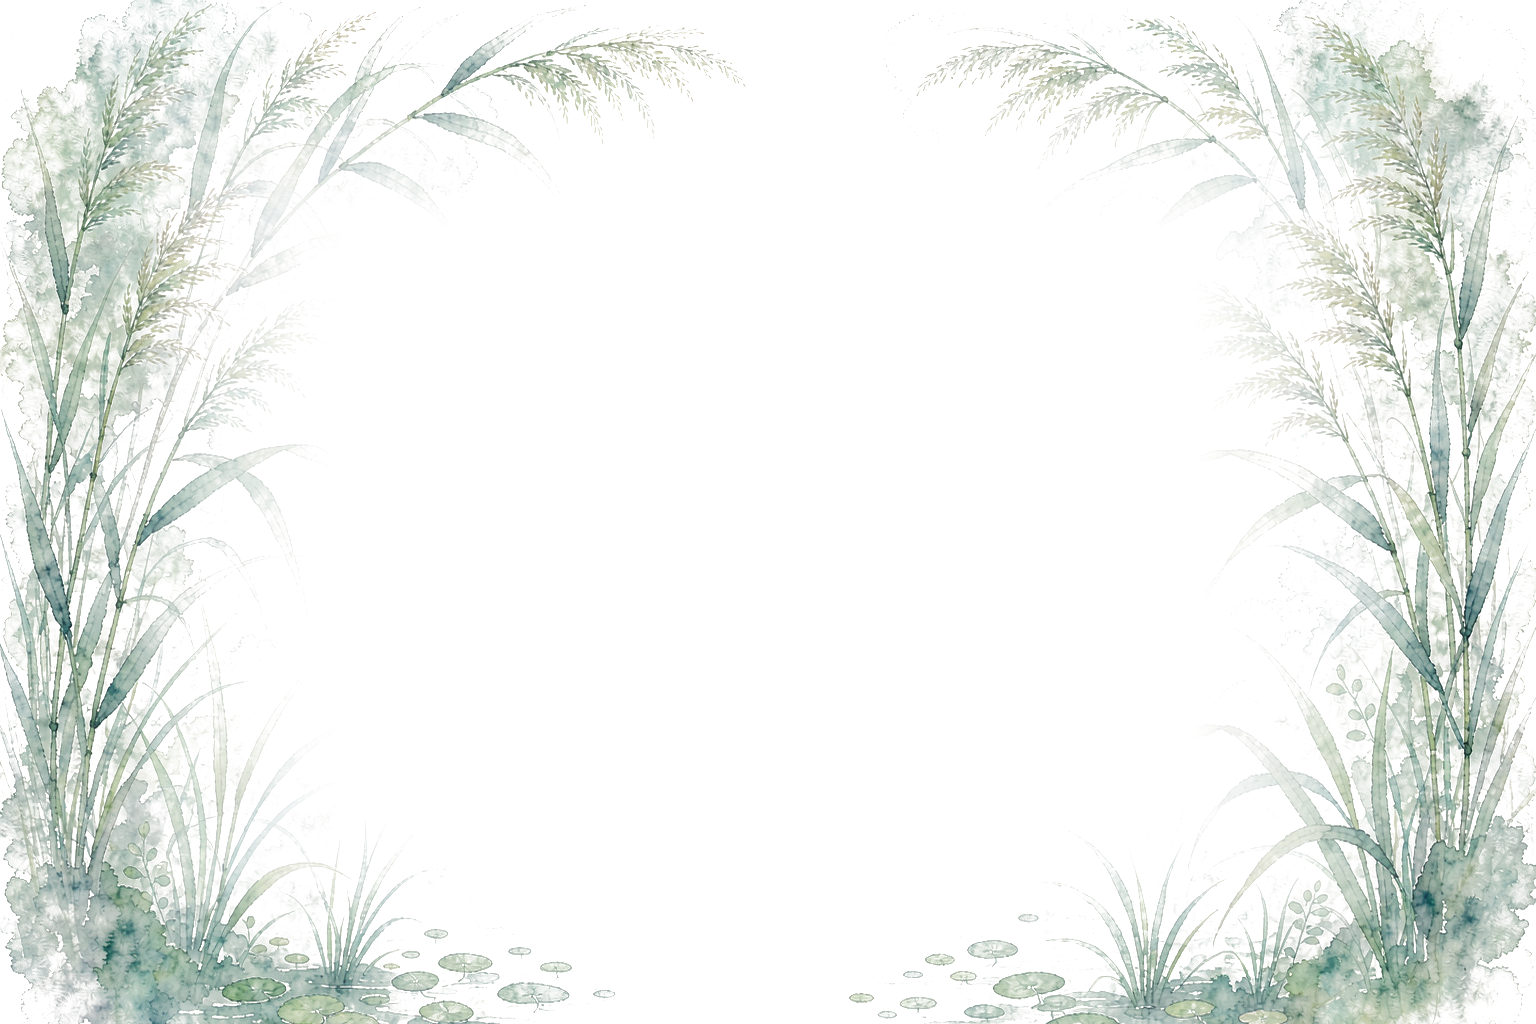
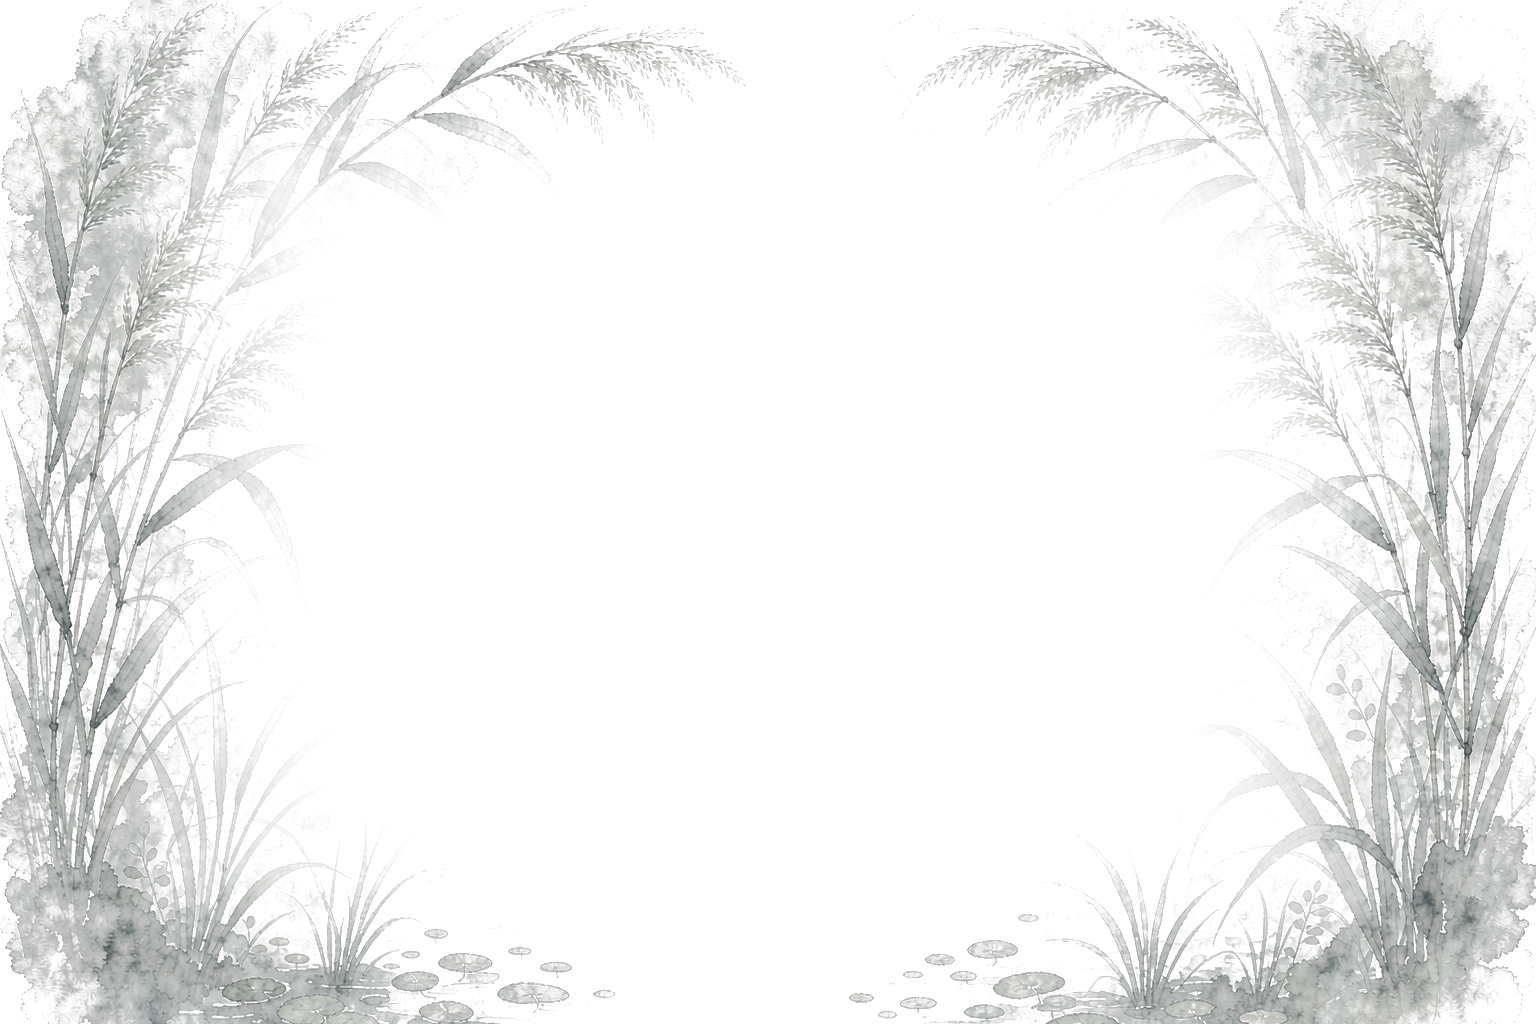
档 1 动效 + 苍泽前景降饱和
1. 苍泽前景与背景不搭（用户："前景颜色太鲜艳，背景是死灰色"）
   前景做色彩归并：饱和度降到 42%、亮度 94%、与灰度混合 35%、alpha ×0.82，
   让芦苇退到背景后面，不再抢眼。
2. 档 1 动效（BattleStage2D）：
   · 背景层改为超铺 6%（漂移不会露出边），记录 home；
   · Step 里做极缓视差：水平 sin(t*0.195)*0.10、垂直 sin(t*0.140)*0.06 世界单位
     （1920 宽下约 7px / 4px，周期 32s/45s）；
   · 前景原有的 ±0.5° 摆动与 0.06/0.05 位移保留（与背景不同频率 ⇒ 有层次）。
   零 shader、零新资源，2D 精灵位移，低端机无压力。

diff --git a/Assets/WanXiang/Modules/Battle/Presentation/BattleStage2D.cs b/Assets/WanXiang/Modules/Battle/Presentation/BattleStage2D.cs
@@ -438,6 +438,10 @@ namespace WanXiang.Battle.Presentation
 
         // ---- 四周前景装饰（2026-10-11 战斗美化：随幕变化 + 轻微摇曳）----
         private Transform _fgDecor;
+
+        /// <summary>背景层（档 1 极缓视差漂移用；2026-10-23）。</summary>
+        private Transform _bgDecor;
+        private Vector3 _bgHomePos;
         /// <summary>环境粒子（按幕：春花瓣/夏萤火/长夏花粉/秋落叶/冬雪花）。</summary>
         private BattleAmbientParticles _ambient;
 
@@ -471,10 +475,14 @@ namespace WanXiang.Battle.Presentation
                 bgSr.sprite = springBg;
                 // 铺满相机视野（ortho 5.4 → 高 10.8、宽 19.2 @16:9）
                 var b = springBg.bounds;
-                float sx = 19.2f / b.size.x, sy = 10.8f / b.size.y;
+                // ★ 2026-10-23 档 1：背景要做极缓视差漂移 ⇒ 超铺 6%，四边不会被漂出空白。
+                const float bgOver = 1.06f;
+                float sx = 19.2f * bgOver / b.size.x, sy = 10.8f * bgOver / b.size.y;
                 bg.transform.localScale = new Vector3(sx, sy, 1f);
             }
             bgSr.sortingOrder = -10;
+            _bgDecor = bg.transform;
+            _bgHomePos = bg.transform.localPosition;
 
             // ---- 四周前景装饰（透明 PNG、随幕变化；sortingOrder 30 = 压过冲锋立绘 20）----
             if (fgDecor != null)
@@ -995,6 +1003,7 @@ return Sprite.Create(tex, new Rect(0, 0, size, size), new Vector2(0.5f, 0.5f), 1
             _state = null;
             _cam = null;
             _fgDecor = null;
+            _bgDecor = null;
             _ambient = null;   // 粒子子物体已被上面销毁；Build 里重新 GetComponent/AddComponent
             _skillFx = null;   // SkillFx 子物体一并销毁；下次 EnsureSkillFx 重建（否则持已毁对象）
             _turnArrow = null; // 箭头子物体已被上面销毁；Build 里重建
@@ -2004,6 +2013,15 @@ return Sprite.Create(tex, new Rect(0, 0, size, size), new Vector2(0.5f, 0.5f), 1
             if (_turnArrow != null) _turnArrow.enabled = false;   // 每帧默认隐藏，循环里再为行动者点亮
 
             // 前景轻微摇曳（呼吸感；幅度很小，不干扰战斗阅读）
+            if (_bgDecor != null)
+            {
+                // 极缓视差：水平 ~32s 一个来回、垂直 ~45s，振幅仅 0.10/0.06 世界单位
+                // （1920 宽下约 7px / 4px）—— 只让画面"呼吸"，不产生位移感。
+                _bgDecor.localPosition = _bgHomePos + new Vector3(
+                    Mathf.Sin(_animT * 0.195f) * 0.10f,
+                    Mathf.Sin(_animT * 0.140f) * 0.06f,
+                    0f);
+            }
             if (_fgDecor != null)
             {
                 _fgDecor.localRotation = Quaternion.Euler(0f, 0f, Mathf.Sin(_animT * 0.9f) * 0.5f);
